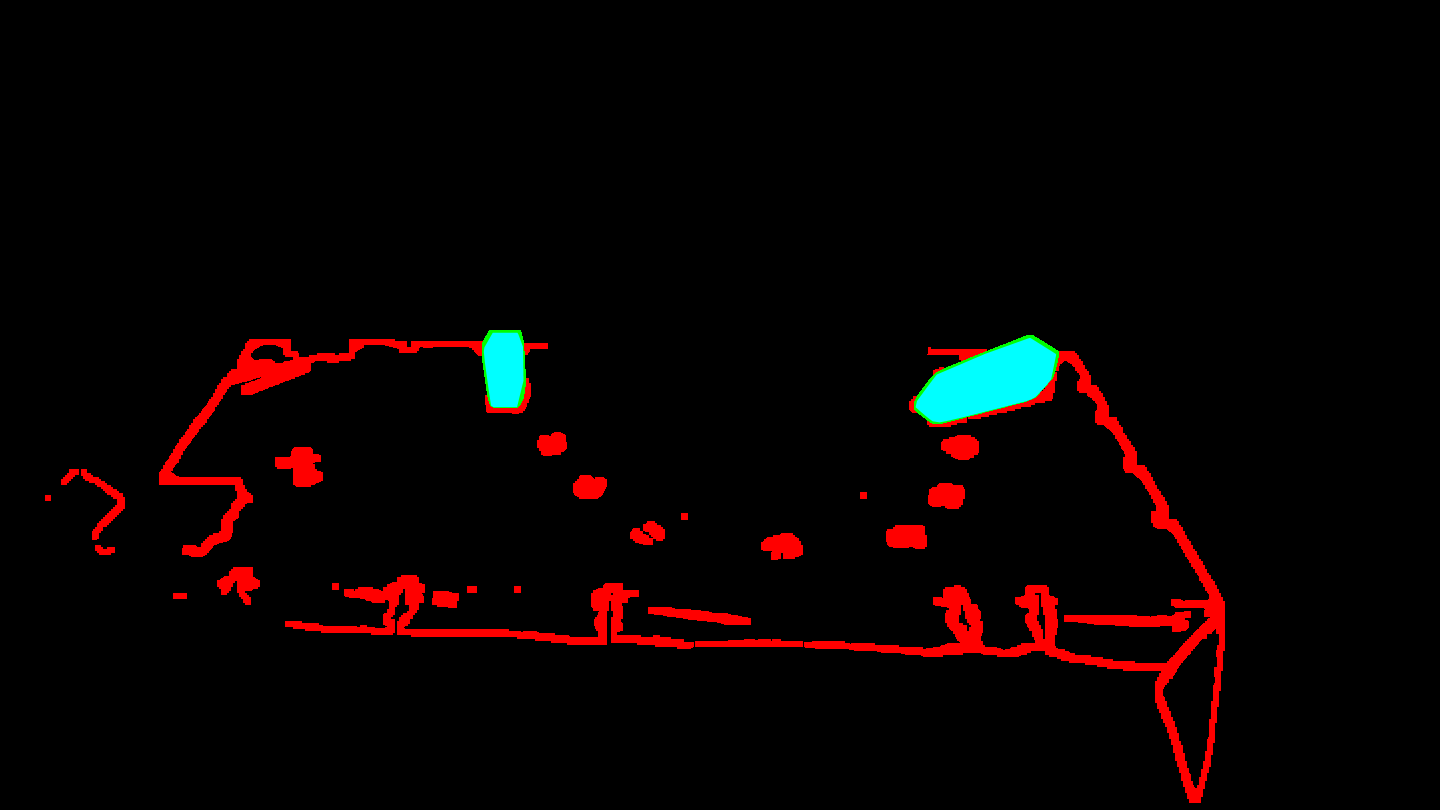
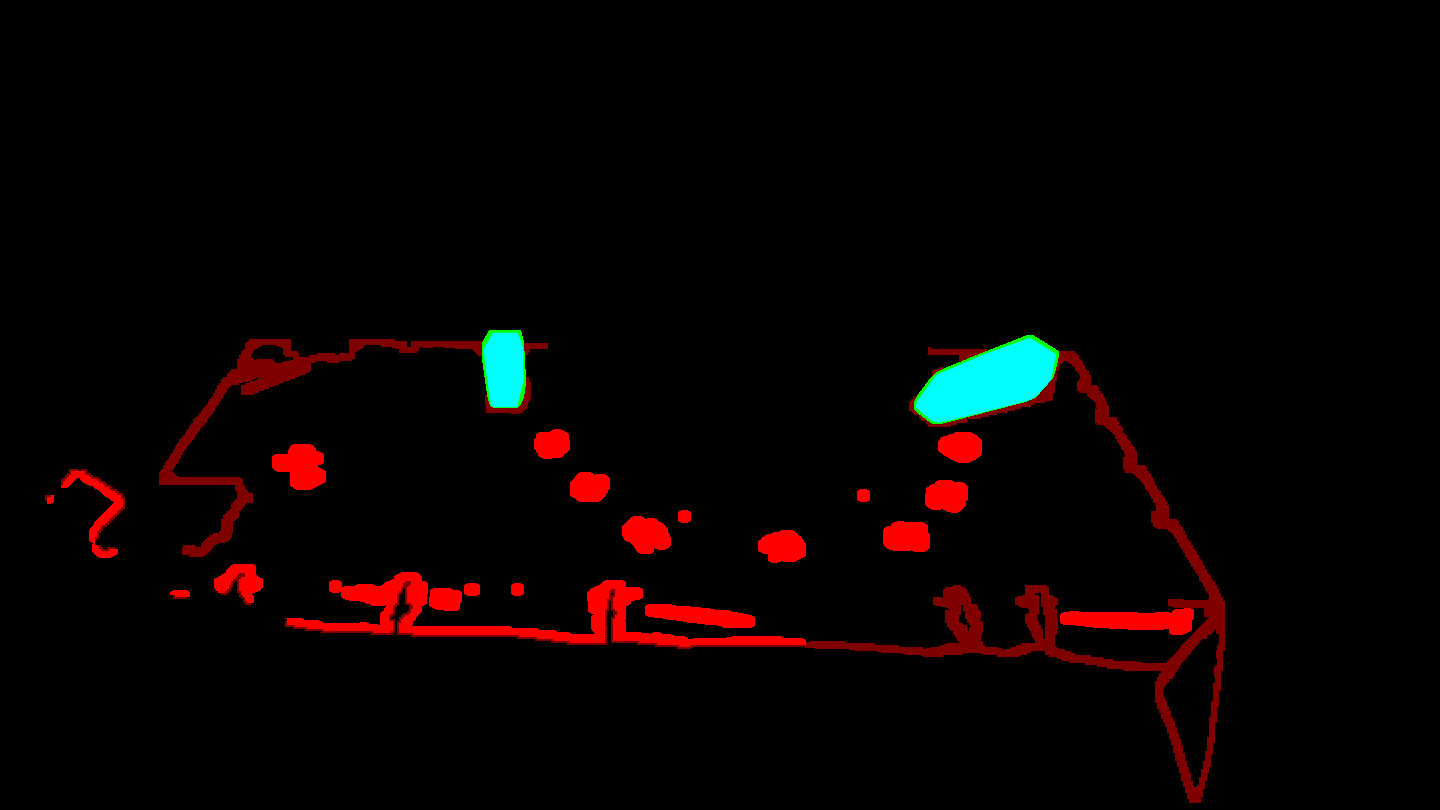
Follow the dealer's cards when she moves them where they lie
Each dealer card had one resting outline for its whole stay, but she squares
the up card against the hole card and puts it back a few pixels off after the
reveal, so its face sat up to 5 px off the card. Settle now re-fits each dealer
card through its stay: every still stretch gets its own resting outline
(`rests`), a slide under her fingers is followed frame by frame, and a lift is
traced from where it lay to where it is put down. The discard pile trace no
longer mistakes the still-lying hole card for the pile.

Drawn face vs card, all clips: typical error 0.46 -> 0.09 px; full-table deal
3.4 -> 0.4 px; clips over 1 px on a tenth of frames 26 -> 8 of 64.

diff --git a/app/src/render/shaders.ts b/app/src/render/shaders.ts
@@ -333,8 +333,10 @@ void main() {
  *   are far brighter than the wall (looked for only next to her). Her colour is unmixed by all of
  *   her matte, but laid in by the middle of its ramp, so her outline is as crisp as the footage's.
  * - On the cloth within her reach: the share of the bare felt's blue that is missing (cards, her
- *   hands, her shadows), and her matte; clutter lying still on it is erased wherever it looks as it
- *   always does. Past her reach the cloth is always replaced.
+ *   hands, her shadows), and her matte; clutter lying on it is erased, never on a card drawn this
+ *   frame: on the open felt all of it but her and card stock (where she has a matte), by the shoe
+ *   and the discard holder wherever it looks as it always does. Past her reach the cloth is always
+ *   replaced.
  * - The shoe and the discard holder never move: each has a crisp outline (the scene pass's), inside
  *   which the footage is kept as it is.
  * - With the table kept as filmed, everything below the cloth's back edge stays.
@@ -372,6 +374,11 @@ uniform vec3 uSkirtTint;
 uniform vec3 uLed;
 uniform vec3 uTint;
 uniform float uSeed;
+// the outlines of the cards whose faces are drawn this frame (pipeline pixel-centre coordinates)
+const int CARDS = 32;
+uniform vec2 uCards[CARDS * 4];
+uniform int uCardN;
+${KEYS}
 const int SKIRT_TAPS = 12;
 // The footage is enlarged about 1.5x into the dealer framing: filtered Catmull-Rom (sharper than
 // bilinear) and sharpened back a little.
@@ -468,6 +475,32 @@ float same(vec3 c, vec3 r) {
   vec3 d = abs(c - r);
   return 1.0 - smoothstep(0.07, 0.16, max(d.r, max(d.g, d.b)));
 }
+float cross2(vec2 a, vec2 b) { return a.x * b.y - a.y * b.x; }
+// signed distance (px) of p from the line a -> b
+float side(vec2 a, vec2 b, vec2 p) { return cross2(b - a, p - a) / max(length(b - a), 1e-3); }
+// How far inside the deepest of the cards drawn this frame p is, in px (negative: outside them all).
+float inCards(vec2 p) {
+  float best = -1e3;
+  for (int i = 0; i < CARDS; i++) {
+    if (i >= uCardN) break;
+    vec2 q0 = uCards[i * 4], q1 = uCards[i * 4 + 1], q2 = uCards[i * 4 + 2], q3 = uCards[i * 4 + 3];
+    // inside is on the same side of all four edges, whichever way round the outline runs
+    float o = sign(cross2(q2 - q0, q3 - q1));
+    float d = min(min(o * side(q0, q1, p), o * side(q1, q2, p)), min(o * side(q2, q3, p), o * side(q3, q0, p)));
+    if (o != 0.0) best = max(best, d);
+  }
+  return best;
+}
+// Card stock with no face drawn on it (the cards she gathers up): stock-coloured, and so on most of
+// a ring a few pixels round, where a bet marker's glint is a line a pixel or two wide.
+float faceless(vec2 s, vec3 c) {
+  float n = 0.0;
+  for (int i = 0; i < 8; i++) {
+    float t = float(i) * 0.7853982;
+    n += stockness(live(s + 3.0 * vec2(cos(t), sin(t))).rgb);
+  }
+  return stockness(c) * smoothstep(0.3, 0.6, n / 8.0);
+}
 vec2 topUV(vec2 s) {
   vec3 h = uToTop * vec3(s, 1.0);
   return h.z <= 0.0 ? vec2(-1.0) : h.xy / h.z;
@@ -513,7 +546,16 @@ void main() {
   float core = smoothstep(0.75, 0.95, mk.r);
   float cloth = mk.g;
   float reach = mk.b;
-  float clutter = cp.r;
+  // clutter: 1 on the open felt, a half by the shoe and the discard holder; never on a card drawn
+  // this frame. On the open felt, with her matte to keep her by, all of it goes but her and the
+  // faceless cards she carries over it (the bet marker she knocks askew looks like itself in
+  // neither place); elsewhere only where it looks as it always does.
+  float clutter = min(cp.r * 2.0, 1.0);
+  float openFelt = 0.0;
+  if (uSwapTable == 1 && cp.r > 0.0) {
+    clutter *= 1.0 - smoothstep(-1.0, 1.0, inCards(s - 0.5));
+    if (uHasMatte == 1 && cp.r > 0.5) openFelt = clamp(cp.r * 2.0 - 1.0, 0.0, 1.0) * (1.0 - faceless(s, c));
+  }
   // the shoe and the discard holder, crisp: kept as filmed, her hands and the cards on them with them
   float props = uSetOnly == 1 ? 0.0 : cp.b;
   float matte = uHasMatte == 1 ? lv.a * env : 0.0;
@@ -538,7 +580,8 @@ void main() {
   float notFelt = 1.0 - pastEdge * smoothstep(0.03, 0.1, blueness(c));
   above *= notFelt;
   aboveEdge *= notFelt;
-  float onCloth = uSwapTable == 1 ? max(reach * clothKey(c, ref) * (1.0 - clutter * same(c, ref)), lv.a * reach * float(uHasMatte)) : 1.0;
+  float erase = clutter * max(same(c, ref), openFelt);
+  float onCloth = uSwapTable == 1 ? max(reach * clothKey(c, ref) * (1.0 - erase), lv.a * reach * float(uHasMatte)) : 1.0;
   // Just outside the props' crisp outlines the footage still has their soft edge, darker than the
   // felt, which the felt key would keep as a blur round them: there it keeps only her (her matte,
   // or skin's warmth) and a card coming out of the shoe (far brighter than the felt).

diff --git a/app/src/render/Compositor.ts b/app/src/render/Compositor.ts
@@ -29,6 +29,8 @@ export interface PlateDraw {
 const PLATE_MODE = { whole: 0, extras: 1, match: 2, dealing: 3 } as const;
 /** Corners a dealt card's outline can have (the shader's uNew). */
 const NEW_MAX = 16;
+/** Cards drawn in a frame whose outlines the stage pass spares from erasing clutter (its uCards). */
+const STAGE_CARDS = 32;
 
 /** Video pixel (GL's, edges on integers) -> a still's texture UV, back through its placing. */
 function plateUV(rect: [number, number, number, number], place: Similarity): number[] {
@@ -342,6 +344,11 @@ export class Compositor {
     gl.uniform1i(su.uHasMatte, packA && packB ? 1 : 0);
     gl.uniform3fv(su.uTint, v.tint ?? [1, 1, 1]);
     gl.uniform1f(su.uSeed, Math.random() * 512);
+    const drawn = f.cards.filter((c) => c.alpha > 0).slice(0, STAGE_CARDS);
+    const outlines = new Float32Array(STAGE_CARDS * 8);
+    drawn.forEach((c, i) => outlines.set(c.quad.flat(), i * 8));
+    gl.uniform2fv(su["uCards[0]"], outlines);
+    gl.uniform1i(su.uCardN, drawn.length);
     // the mask overlay is for the plates: show the footage as filmed under it
     gl.uniform1i(su.uHasSet, v.set && !f.showMasks ? 1 : 0);
     const table = v.table;

diff --git a/pipeline/bj3/scene.py b/pipeline/bj3/scene.py
@@ -13,7 +13,9 @@ Reads every clip in the manifest (a sample of frames from each) and writes to ga
                  G: the cloth (the table surface, its drape, and the shoe and discard holder on it)
                  B: the cloth within her reach, where her arms, the cards and the props ever move
   clutter.png    R: clutter on the cloth to erase (clamps, pens, bet markers...): anything lying
-                    still that isn't felt, the shoe or the discard holder
+                    still (all take, or between her moving it) that isn't felt, a card, the shoe
+                    or the discard holder. 1 on the open felt, a half by the shoe and the
+                    discard holder (there, only where it looks as it always does)
                  G: the shoe and the discard holder, and a few pixels round them
                  B: the shoe and the discard holder, crisp (anti-aliased, a little inside their
                     soft edges in the footage): kept as filmed, whatever is around them
@@ -34,6 +36,20 @@ import numpy as np
 
 STEP = 9  # every 9th frame of every clip (~1100 frames over the take)
 MEDIAN_EVERY = 6  # of those, every 6th goes into the per-pixel medians
+# clutter she moves (the bet marker by seat 1 is knocked askew partway through) is still only
+# between moves: it is also looked for in each of this many stretches of the take on its own
+STILL_SPANS = 4
+# and never where a card lies, nor this close (px): a card lying still a while is no clutter;
+# nor in specks smaller than this (px)
+CARD_CLEAR = 6
+SPAN_MIN = 30
+# clutter this far (px) from the shoe and the discard holder lies on the open felt, where the app
+# can erase all of it but her and the cards; nearer, cards come out of the shoe and go into the
+# holder before and after their faces are drawn
+PROP_CLEAR = 10
+# and grown this much (px) there: a marker's bright edge would otherwise spread past the mask as the
+# app enlarges the footage (it is felt round it, which is replaced anyway)
+OPEN_GROW = 3
 CARD_CM = (6.35, 8.89)
 
 
@@ -191,10 +207,12 @@ def main() -> None:
     felt_sum = np.zeros((H, W, 3), np.float32)
     person = np.zeros((H, W), np.uint16)
     stack: list[np.ndarray] = []
+    when: list[int] = []
     n = 0
     files = sorted({c["file"] for c in m["clips"].values()})
+    start = {c["file"]: c["sourceStart"] for c in m["clips"].values()}
     for name in files:
-        for f in frames(root / name, STEP):
+        for i, f in enumerate(frames(root / name, STEP)):
             k = feltness(f)
             fe = k > 0.5
             # bare felt only, well clear of anything on it (a card's edge blends into the felt)
@@ -204,15 +222,25 @@ def main() -> None:
             person += ~wallish(f) & ~fe
             if n % MEDIAN_EVERY == 0:
                 stack.append(f)
+                when.append(start[name] + i * STEP)
             n += 1
     print(f"{n} frames from {len(files)} clips, {len(stack)} in the median")
     stack = np.stack(stack)
     median = np.median(stack, axis=0).astype(np.uint8)
-    # how often each pixel looks unlike its median: props lying still almost never do
-    changed = np.zeros((H, W), np.float32)
-    for f in stack:
-        changed += np.abs(f.astype(np.int16) - median).max(axis=2) > 24
-    changed /= len(stack)
+
+    def unlike(frames: np.ndarray, med: np.ndarray) -> np.ndarray:
+        """How often each pixel looks unlike its median: props lying still almost never do."""
+        out = np.zeros((H, W), np.float32)
+        for f in frames:
+            out += np.abs(f.astype(np.int16) - med).max(axis=2) > 24
+        return out / len(frames)
+
+    changed = unlike(stack, median)
+    # and each stretch of the take on its own, in take order
+    spans = []
+    for part in np.array_split(np.argsort(when), STILL_SPANS):
+        med = np.median(stack[part], axis=0).astype(np.uint8)
+        spans.append((med, unlike(stack[part], med)))
     del stack
     felt_frac = felt_count / n
 
@@ -275,13 +303,31 @@ def main() -> None:
 
     # clutter: on the cloth and lying still. That is anything not felt in the median, and the clear
     # bet markers, which are felt through their middles but leave rims unlike the felt around
-    # them. The cards and her resting hands change far too often to count. The shoe and the
-    # discard holder are kept as filmed, including the parts that stand up past the cloth's edge.
-    m_felt = feltness(median)
-    local = np.abs(median.astype(np.int16) - cv2.medianBlur(median, 21)).max(axis=2) > 18
-    still = cloth & (changed < 0.12) & ((m_felt < 0.5) | local)
+    # them. The cards and her resting hands change far too often to count. Clutter she moves lies
+    # still between moves: anything lying still through a stretch of the take counts too, away from
+    # where the cards lie. The shoe and the discard holder are kept as filmed, including the parts
+    # that stand up past the cloth's edge.
+    def lying_still(med: np.ndarray, unlike_med: np.ndarray) -> np.ndarray:
+        local = np.abs(med.astype(np.int16) - cv2.medianBlur(med, 21)).max(axis=2) > 18
+        return cloth & (unlike_med < 0.12) & ((feltness(med) < 0.5) | local)
+
+    still = lying_still(median, changed)
+    cards_lie = np.zeros((H, W), np.uint8)
+    for clip in m["clips"].values():
+        for v in clip["cards"]:
+            for q in [v["quad"]] + [r["quad"] for r in v.get("rests", [])]:
+                cv2.fillConvexPoly(cards_lie, np.array(q, np.float32).round().astype(np.int32), 1)
+    for p in (p for s in m["seats"] for p in m["plates"][s].values()):
+        for q in p["cards"]:
+            cv2.fillConvexPoly(cards_lie, np.array(q, np.float32).round().astype(np.int32), 1)
+    k = 2 * CARD_CLEAR + 1
+    cards_lie = cv2.dilate(cards_lie, cv2.getStructuringElement(cv2.MORPH_ELLIPSE, (k, k))).astype(bool)
+    for med, unlike_med in spans:
+        found = (lying_still(med, unlike_med) & ~cards_lie).astype(np.uint8)
+        n_lab, lab, stats, _ = cv2.connectedComponentsWithStats(found, 8)
+        still |= np.isin(lab, 1 + np.flatnonzero(stats[1:, cv2.CC_STAT_AREA] >= SPAN_MIN))
     still = cv2.dilate(still.astype(np.uint8), np.ones((3, 3), np.uint8)).astype(bool) & cloth
-    solid = (m_felt < 0.5) & ~wallish(median)
+    solid = (feltness(median) < 0.5) & ~wallish(median)
     n_lab, lab, stats, _ = cv2.connectedComponentsWithStats(solid.astype(np.uint8), 8)
     props = np.zeros_like(still)
     for name in ("shoe", "discardTray"):
@@ -305,6 +351,13 @@ def main() -> None:
     leaning = cv2.dilate(body.astype(np.uint8), np.ones((41, 25), np.uint8)).astype(bool)
     clutter = still & ~props & ~leaning
     clutter = cv2.dilate(clutter.astype(np.uint8), np.ones((5, 5), np.uint8)).astype(bool) & ~props & ~leaning
+    # each piece on the open felt, clear of the props
+    k = 2 * PROP_CLEAR + 1
+    by_props = cv2.dilate(props.astype(np.uint8), cv2.getStructuringElement(cv2.MORPH_ELLIPSE, (k, k))).astype(bool)
+    n_lab, lab = cv2.connectedComponents(clutter.astype(np.uint8), connectivity=8)
+    open_felt = clutter & ~np.isin(lab, np.unique(lab[by_props & clutter]))
+    k = 2 * OPEN_GROW + 1
+    open_felt = cv2.dilate(open_felt.astype(np.uint8), cv2.getStructuringElement(cv2.MORPH_ELLIPSE, (k, k))).astype(bool) & cloth & ~props & ~leaning
 
     # her reach: the stretch of cloth where anything ever moves that her arms or the cards are
     # part of. Past it (the softbox's flickering edge, the drape) the cloth is always replaced.
@@ -353,7 +406,8 @@ def main() -> None:
     masks = np.round(np.dstack([reach_over, cloth, r]).astype(np.float32) * 255).astype(np.uint8)  # BGR
     cv2.imwrite(str(out / "masks.png"), masks)
     crisp = np.round(prop_mattes(median, ref, props) * 255).astype(np.uint8)
-    cv2.imwrite(str(out / "clutter.png"), np.dstack([crisp, props.astype(np.uint8) * 255, clutter.astype(np.uint8) * 255]))
+    erase = np.where(open_felt, 255, np.where(clutter, 128, 0)).astype(np.uint8)
+    cv2.imwrite(str(out / "clutter.png"), np.dstack([crisp, props.astype(np.uint8) * 255, erase]))
 
     cards = [np.array(m["dealer"]["up"]), np.array(m["dealer"]["hole"])]
     for seat in m["seats"]:

diff --git a/README.md b/README.md
@@ -276,6 +276,14 @@ compositor's last pass (`STAGE_FS`).
   - On the cloth, `a` is the share of the bare felt's blue that is missing (cards, her hands,
     her shadows), plus her matte.
   - Her shadow, which is the felt darkened, becomes the new felt darkened alike.
+  - Clutter on the cloth (the clear bet markers, clamps) is erased, but never inside a card whose
+    face is drawn that frame. On the open felt, with her matte, everything there goes except her
+    and card stock. Card stock is told from a marker's glint by being stock-coloured a few pixels
+    all round. This matters because she knocks the bet marker by seat 1 askew partway through the
+    take, so it matches the reference in neither place. The scene pass finds it in both places by
+    also looking for still clutter in each quarter of the take on its own.
+  - By the shoe and the discard holder, cards come and go before their faces are drawn. There,
+    clutter is erased only where it looks as it always does.
 - **Matching her to the set:** the footage, enlarged about 1.5×, is filtered Catmull-Rom rather
   than bilinear, and sharpened back a little inside what is kept. It is
   tinted toward the room's light (the room behind her against the wall she was filmed in front
